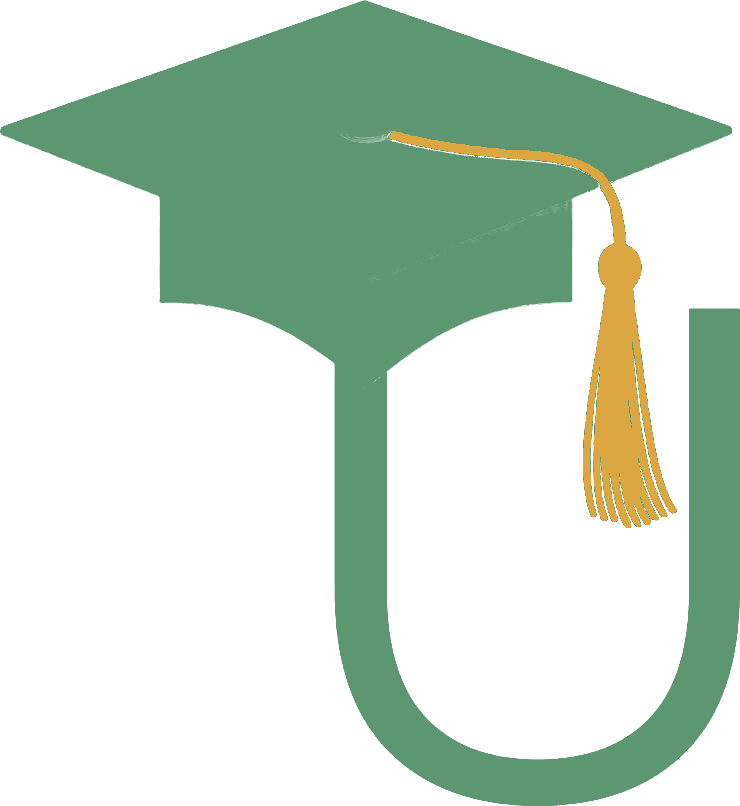
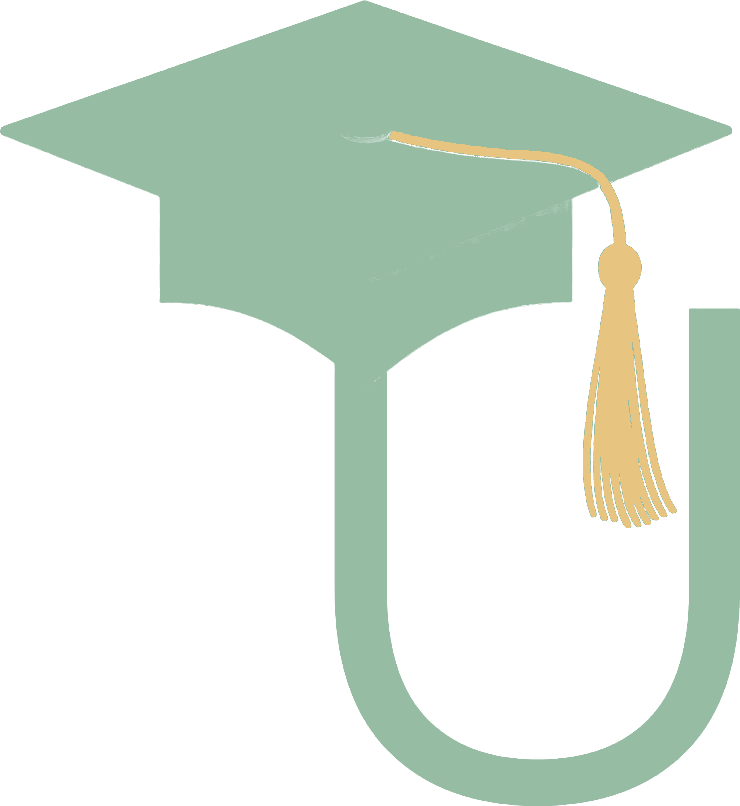
Adoucir le filigrane pour qu'il reste discret à l'impression.

diff --git a/Afrcaiim Card/static/rendu-carte.js b/Afrcaiim Card/static/rendu-carte.js
@@ -269,7 +269,7 @@ function filigraneLogo(px, face, largeurMm, hauteurMm) {
   const largeur = hauteur * ratio;
   const droite = 1;
   const gauche = (largeurMm || (portrait ? 54 : 85.6)) - largeur - droite;
-  img.src = recto ? "/static/filigrane.png?v=13" : "/static/filigrane-verso.png?v=13";
+  img.src = recto ? "/static/filigrane.png?v=14" : "/static/filigrane-verso.png?v=14";
   img.style.cssText = `position:absolute;left:${gauche * px}px;top:${haut * px}px;width:${largeur * px}px;height:${hauteur * px}px;object-fit:contain;pointer-events:none;z-index:1`;
   return img;
 }

diff --git a/Afrcaiim Card/templates/imprimer.html b/Afrcaiim Card/templates/imprimer.html
@@ -54,7 +54,7 @@
   <div id="recto" class="feuille"></div>
   <div id="verso" class="feuille"></div>
   <script id="donnees" type="application/json">{{ donnees | tojson }}</script>
-  <script src="/static/rendu-carte.js?v=50"></script>
+  <script src="/static/rendu-carte.js?v=51"></script>
   <script>
     const csrf = document.querySelector('meta[name="csrf"]').content;
     const data = JSON.parse(document.getElementById("donnees").textContent);

diff --git a/Afrcaiim Card/templates/imprimer_personnel.html b/Afrcaiim Card/templates/imprimer_personnel.html
@@ -53,7 +53,7 @@
   <div id="recto" class="feuille"></div>
   <div id="verso" class="feuille"></div>
   <script id="donnees" type="application/json">{{ donnees | tojson }}</script>
-  <script src="/static/rendu-carte.js?v=50"></script>
+  <script src="/static/rendu-carte.js?v=51"></script>
   <script>
     const data = JSON.parse(document.getElementById("donnees").textContent);
     const recto = document.getElementById("recto");

diff --git a/Afrcaiim Card/templates/studio.html b/Afrcaiim Card/templates/studio.html
@@ -235,7 +235,7 @@
     "tarifPersonnel": abonnement_personnel
   } | tojson }}</script>
   <script id="ecoles-officielles" type="application/json">{{ ecoles | tojson }}</script>
-  <script src="/static/rendu-carte.js?v=50"></script>
+  <script src="/static/rendu-carte.js?v=51"></script>
   <script src="/static/studio.js?v=42"></script>
   <script src="/static/abonnement.js?v=1" defer></script>
 </body>

diff --git a/Afrcaiim Card/templates/lot_apercu.html b/Afrcaiim Card/templates/lot_apercu.html
@@ -33,7 +33,7 @@
     </div>
   </div>
   <script id="donnees" type="application/json">{{ donnees | tojson }}</script>
-  <script src="/static/rendu-carte.js?v=50"></script>
+  <script src="/static/rendu-carte.js?v=51"></script>
   <script src="/static/impression-locale.js?v=2"></script>
   <script src="/static/lot-apercu.js?v=6"></script>
 </body>

diff --git a/Afrcaiim Card/app/services/pdf_carte.py b/Afrcaiim Card/app/services/pdf_carte.py
@@ -724,7 +724,8 @@ def _png_filigrane(recto: bool) -> bytes:
     from PIL import Image
 
     source = Image.open(ROOT / "static" / "marque-u.png").convert("RGBA")
-    # Sauge et or assez francs pour que la Primacy les dépose. Le mélange trop pâle sort gris.
+    # Sauge et or discrets : assez teintés pour que la Primacy ne les passe pas au gris,
+    # assez proches du blanc pour rester un filigrane.
     sauge = (46, 122, 74)
     or_fil = (212, 148, 22)
     pixels = []
@@ -734,7 +735,7 @@ def _png_filigrane(recto: bool) -> bytes:
             continue
         gland = rouge > bleu + 20 and rouge + 15 >= vert and rouge > 70
         cible = or_fil if gland else sauge
-        taux = (0.82 if gland else 0.78) * (alpha / 255.0)
+        taux = (0.55 if gland else 0.50) * (alpha / 255.0)
         pixels.append(tuple(
             int(round(cible[canal] * taux + 255 * (1.0 - taux)))
             for canal in range(3)
